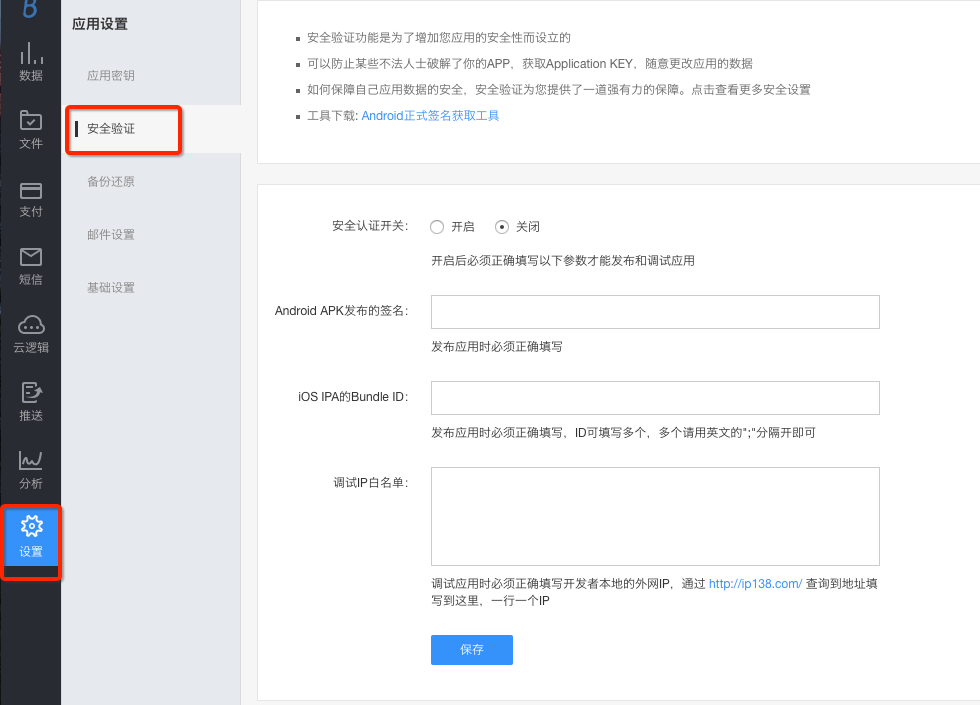
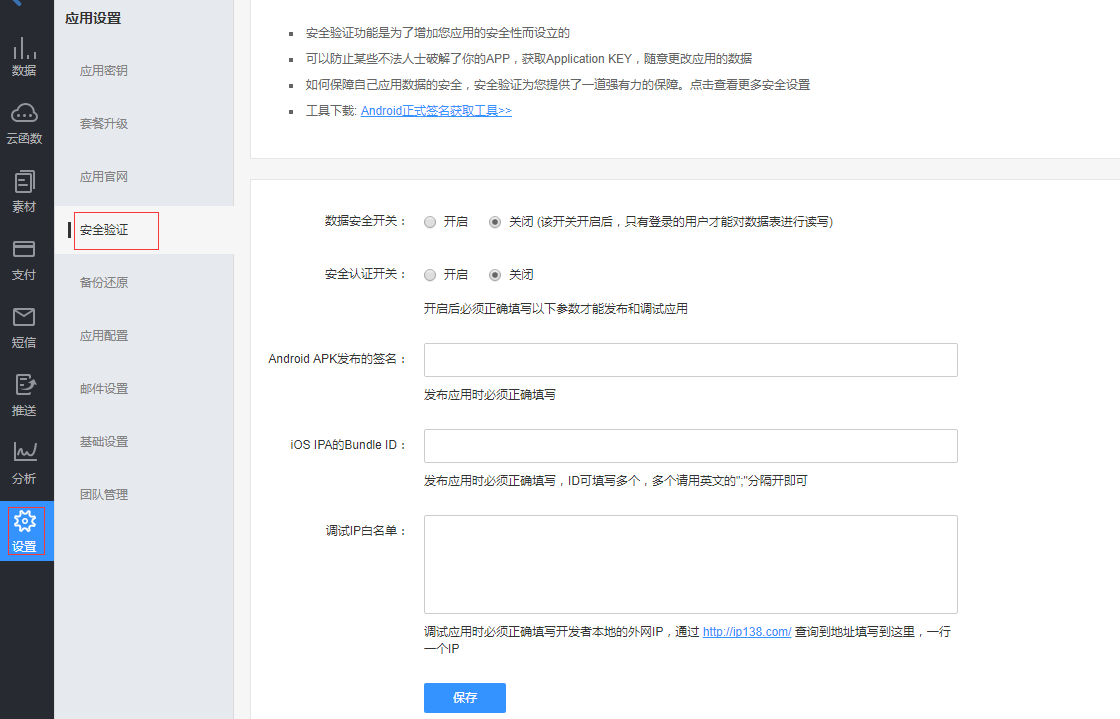
服务端自动生成文档

diff --git a/docs/other/data_safety/index.html b/docs/other/data_safety/index.html
@@ -524,6 +524,7 @@
 <p>当APP进入发布阶段，你可以做更多的工作，防止某些不法人士破解了你的APP，获取Application KEY，而随意更改里面的数据。需要做的事情非常简单，你只需要进入到这个APP的Bmob后台，依次点击“应用设置-&gt;安全认证”，将APP的签名/Bundle ID信息填写在里面，就可以确保数据的安全。如下图：</p>
 <p><img alt="" src="./image/safesetting.png" /></p>
 <p>如果你的APP已经处于发布状态，也开启了安全认证，那么，当你需要对这个APP进行调试时，要把调试时的网络IP加到IP白名单上面。这样的话，这个IP就能够绕过安全认证进行操作。有点繁琐，但为了确保你的数据安全，Bmob后端云建议你进行相应的操作。</p>
+<p>另外，你也可以启用“数据安全开关”，当开启了数据安全开关后，只有登录的用户才能对数据表进行读写。</p>
                 </div>
             </div>
         </div>
